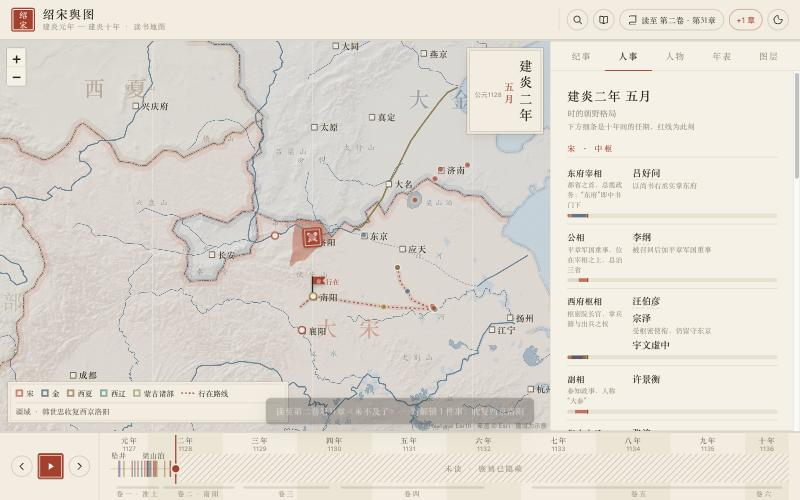
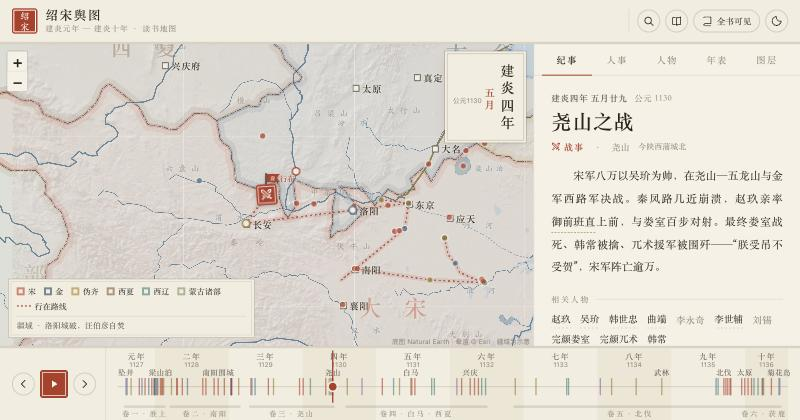
补第五卷事件，新增梁山泊、南阳围城、兴庆府沙盘，分享图与手机顶栏

diff --git a/data/battles.js b/data/battles.js
@@ -359,6 +359,239 @@
         },
       ],
     },
+
+    // ═════════ 梁山泊之战 ═════════
+    {
+      id: 'liangshan', event: 'liangshan', ch: [1, 67], view: [116.1, 35.52, 11.25], title: '梁山泊之战', sub: '缩头滩', date: '建炎二年 正月廿八',
+      brief: '兀术南下时留万户完颜塞里带五千骑占据济州，作为后路接应。岳飞带着东京留守司的一支人马东来，与梁山泊的渔民头领张荣合兵——他们要把这支陆战无敌的骑兵引进水里。',
+      terrain: [
+        { t: 'lake', n: '梁　山　泊', pts: [[115.86, 35.6], [115.98, 35.565], [116.06, 35.585], [116.08, 35.6], [116.13, 35.6], [116.16, 35.575], [116.26, 35.585], [116.35, 35.68], [116.36, 35.86], [116.3, 35.98], [116.16, 36.04], [116.0, 36.02], [115.88, 35.92], [115.83, 35.76]] },
+        { t: 'marsh', n: '芦苇荡', pts: [[116.0, 35.6], [116.075, 35.605], [116.08, 35.66], [116.04, 35.69], [115.99, 35.66]] },
+        { t: 'marsh', n: '芦苇荡', pts: [[116.135, 35.605], [116.21, 35.6], [116.22, 35.66], [116.17, 35.69], [116.13, 35.66]] },
+        { t: 'shoal', n: '缩头滩', pts: [[116.085, 35.565], [116.13, 35.565], [116.128, 35.6], [116.15, 35.63], [116.14, 35.675], [116.105, 35.69], [116.07, 35.67], [116.065, 35.63], [116.087, 35.6]] },
+        { t: 'label', n: '葫芦颈', at: [116.107, 35.585] },
+        { t: 'river', n: '济　水', w: 4, pts: [[115.82, 35.47], [115.95, 35.46], [116.1, 35.45], [116.25, 35.46], [116.4, 35.49]] },
+        { t: 'city', n: '济州', at: [116.1, 35.4] },
+        { t: 'camp', f: 'song', n: '梁山水寨', pts: [[116.2, 35.76], [116.25, 35.76], [116.25, 35.8], [116.2, 35.8]], small: true },
+      ],
+      units: {
+        yf: { f: 'song', k: 'cav', n: '岳飞', s: '诱敌骑兵四百余' },
+        yfi: { f: 'song', k: 'inf', n: '岳飞部步卒', s: '滩头结阵' },
+        yw: { f: 'song', k: 'inf', n: '杨惟忠', s: '河北溃兵' },
+        zr: { f: 'song', k: 'navy', n: '张荣', s: '渔舟数千' },
+        bigs: { f: 'song', k: 'navy', n: '梁山大船', s: '压阵' },
+        sl: { f: 'jin', k: 'hq', n: '完颜塞里', s: '万户' },
+        jm: { f: 'jin', k: 'cav', n: '女真骑兵', s: '约四千五' },
+        dt: { f: 'jin', k: 'cav', n: '大挞不野', s: '渤海猛安' },
+        ll: { f: 'qi', k: 'inf', n: '刘麟', s: '刘豫之子' },
+      },
+      phases: [
+        {
+          title: '水泊设伏', time: '正月廿三',
+          text: '完颜塞里的五千骑占着济州城，扼住兀术的后路。岳飞的部队从济水偷渡，进了张荣的梁山水寨，与张荣、杨惟忠合兵近两万。张荣掐指一算：五日后的正月廿八，下午到傍晚之间，务必把金人引过来——那天水会涨。',
+          pos: { yf: [116.2, 35.73], yfi: [116.235, 35.745], yw: [116.215, 35.79], zr: [116.255, 35.78], bigs: [116.28, 35.82], sl: [116.1, 35.395], jm: [116.12, 35.41], dt: [116.08, 35.41], ll: [116.1, 35.38] },
+          arrows: [{ f: 'song', k: 'move', pts: [[116.0, 35.43], [116.12, 35.5], [116.2, 35.6], [116.21, 35.72]] }],
+        },
+        {
+          title: '七骑叫阵', time: '廿八 上午',
+          text: '岳飞只带七骑来到济州城北，把此前斩获的女真首级摆在马下挑衅。渤海猛安大挞不野先派人单挑落败，又派三十骑追逐，结果被七骑往来回转、回身连射，三十骑只剩二十骑。',
+          pos: { yf: [116.1, 35.43], yfi: [116.1, 35.66] },
+          arrows: [{ f: 'song', k: 'move', pts: [[116.2, 35.73], [116.13, 35.6], [116.1, 35.45]] }, { f: 'song', k: 'move', pts: [[116.235, 35.745], [116.15, 35.69], [116.105, 35.665]] }],
+          marks: [{ at: [116.1, 35.445], t: '七骑败三十骑' }],
+        },
+        {
+          title: '金军尽出', time: '午后',
+          text: '大挞不野亲自下城出战又吃了亏，完颜塞里再也坐不住：济州三门齐开，主力尽出，只留几百人看城。岳飞的四百余骑一路且战且退，把金军往北引向梁山泊南岸。',
+          pos: { yf: [116.105, 35.56], jm: [116.105, 35.5], dt: [116.09, 35.49], sl: [116.11, 35.48], ll: [116.115, 35.47] },
+          arrows: [{ f: 'song', k: 'retreat', pts: [[116.1, 35.43], [116.1, 35.5], [116.105, 35.56]] }, { f: 'jin', k: 'attack', pts: [[116.1, 35.41], [116.1, 35.47], [116.103, 35.5]] }],
+        },
+        {
+          title: '缩头滩', time: '下午正中', view: [116.122, 35.6, 12.5],
+          text: '这片滩地形如葫芦：南面的葫芦颈连着陆地，北面的葫芦肚是一片砂石坚硬的大圆滩，两侧五六里外才是芦苇荡，骑兵完全冲得起来。岳飞的步卒在滩头西北结阵，金军进入葫芦肚轮番冲击；完颜塞里骑马立在大圆滩中央观阵，承认这是生平所见最难缠的宋军。',
+          pos: { yf: [116.09, 35.655], yfi: [116.098, 35.668], jm: [116.11, 35.64], dt: [116.12, 35.63], sl: [116.108, 35.62], ll: [116.112, 35.61] },
+          arrows: [{ f: 'song', k: 'move', pts: [[116.105, 35.56], [116.1, 35.62], [116.09, 35.65]] }, { f: 'jin', k: 'attack', pts: [[116.103, 35.5], [116.107, 35.58], [116.105, 35.635], [116.1, 35.66]] }],
+        },
+        {
+          title: '渔歌四起', time: '傍晚',
+          text: '一艘形制古怪、两侧绑着尖木的小船从水泊深处一直划过来。夕阳下，数以千计的小舟从两侧芦苇荡同时涌出，大船在后压阵，成千上万人齐唱渔歌号子。塞里下令撤退，披红袄、簪着花的张荣带着那些怪船，像水上骑兵一样冲撞撤退骑兵的侧翼——葫芦颈早已被挖沟、筑圩堵死。',
+          pos: { zr: [116.135, 35.6], bigs: [116.16, 35.64] },
+          st: { jm: 'rout' },
+          arrows: [{ f: 'song', k: 'attack', pts: [[116.255, 35.78], [116.2, 35.66], [116.14, 35.61]] }, { f: 'song', k: 'attack', pts: [[116.0, 35.66], [116.06, 35.62], [116.09, 35.6]] }, { f: 'jin', k: 'retreat', pts: [[116.108, 35.62], [116.108, 35.59]] }],
+          marks: [{ at: [116.107, 35.578], t: '归路已断' }],
+        },
+        {
+          title: '水涨', time: '入夜',
+          text: '水越涨越高，前有重兵、后路已断，陆战无敌的女真骑兵在一艘艘破船面前失去了抵抗力。有人卸甲浮马想逃，被乱箭射死、被小船撞死。四面船只合围，火把与箭矢不停压近，水泊上一片火海。',
+          pos: { jm: [116.108, 35.625], dt: [116.115, 35.618], sl: [116.105, 35.632], zr: [116.13, 35.615], bigs: [116.075, 35.635] },
+          st: { dt: 'rout', sl: 'rout' },
+          arrows: [{ f: 'song', k: 'attack', pts: [[116.16, 35.64], [116.125, 35.628]] }, { f: 'song', k: 'attack', pts: [[116.05, 35.64], [116.09, 35.63]] }],
+          marks: [{ at: [116.1, 35.645], t: '水上火海' }],
+        },
+        {
+          title: '全军覆没', time: '天明', view: [116.12, 35.55, 11.25],
+          text: '万户完颜塞里身死，五千金军全军覆没。杨惟忠把塞里的首级传示京东诸州，济州收复。消息传到淮上，正在起砲攻下蔡的兀术一日之内连挨两记重拳——后路，断了。',
+          pos: { yw: [116.1, 35.41], yfi: [116.105, 35.62] },
+          st: { jm: 'dead', dt: 'dead', sl: 'dead' },
+          arrows: [{ f: 'song', k: 'move', pts: [[116.215, 35.79], [116.15, 35.55], [116.1, 35.42]] }],
+          marks: [{ at: [116.1, 35.425], t: '济州收复' }],
+        },
+      ],
+    },
+
+    // ═════════ 南阳围城 ═════════
+    {
+      id: 'nanyangwei', event: 'nanyangwei', ch: [2, 63], view: [112.53, 33.006, 13.25], title: '南阳围城', sub: '以砲制砲', date: '建炎二年 十一月—三年正月',
+      brief: '兀术攻破长葛、围住长社后转攻陪都南阳。城里有赵官家，也有一个专心研究守城器械多年的陈规。',
+      terrain: [
+        { t: 'river', n: '白　河', w: 7, pts: [[112.58, 33.12], [112.565, 33.06], [112.555, 33.02], [112.553, 32.99], [112.565, 32.96], [112.6, 32.93], [112.64, 32.9]] },
+        { t: 'hill', n: '豫　山', pts: [[112.575, 33.06], [112.6, 33.055], [112.605, 33.075], [112.585, 33.085]] },
+        { t: 'wall', n: '南阳城', pts: [[112.515, 32.99], [112.545, 32.99], [112.545, 33.012], [112.515, 33.012]] },
+        { t: 'wall', n: '羊马墙', outer: true, pts: [[112.508, 32.985], [112.552, 32.985], [112.552, 33.018], [112.508, 33.018]] },
+        { t: 'camp', f: 'jin', n: '金军北面大营', pts: [[112.505, 33.035], [112.56, 33.035], [112.56, 33.055], [112.505, 33.055]] },
+        { t: 'camp', f: 'jin', n: '豫山后勤大营', pts: [[112.585, 33.035], [112.61, 33.035], [112.61, 33.05], [112.585, 33.05]], small: true },
+        { t: 'label', n: '→ 中阳山 · 往鄢陵', at: [112.66, 33.06] },
+      ],
+      units: {
+        emp: { f: 'song', k: 'emp', n: '赵玖', s: '登城' },
+        cg: { f: 'song', k: 'hq', n: '陈规', s: '城防总设计' },
+        sart: { f: 'song', k: 'art', n: '城内砲车', s: '隐藏不发' },
+        fq: { f: 'song', k: 'inf', n: '傅庆', s: '甲士一千' },
+        wd: { f: 'song', k: 'inf', n: '王德', s: '“夜叉”' },
+        liu: { f: 'song', k: 'cav', n: '刘晏', s: '赤心队八百' },
+        zj: { f: 'song', k: 'inf', n: '张景', s: '城外援军' },
+        wz: { f: 'jin', k: 'hq', n: '兀术', s: '北面将台' },
+        bls: { f: 'jin', k: 'heavy', n: '拔离速', s: '两个猛安' },
+        zy: { f: 'jin', k: 'inf', n: '张遇', s: '叛将 · 驱赶民夫' },
+        hc: { f: 'jin', k: 'inf', n: '韩常', s: '汉军万户' },
+        czh: { f: 'jin', k: 'hq', n: '赤盏晖', s: '万户' },
+        jart: { f: 'jin', k: 'art', n: '金军砲车', s: '两百架 · 四营' },
+        pc: { f: 'jin', k: 'inf', n: '城东仆从军', s: '' },
+        bq: { f: 'jin', k: 'cav', n: '白河外侧万骑', s: '' },
+      },
+      phases: [
+        {
+          title: '合围', time: '建炎二年 十一月',
+          text: '兀术带三个万户、加上叛将张遇，共四万战兵（其中两万骑兵），又有新降汉军和两三万民夫，在城北立下大营，把城东白河畔原本宋军的豫山大营改作后勤基地。金人截了白河水，护城河水位骤降，随即冻得结结实实。赵玖拒绝弃城南走。',
+          pos: { emp: [112.53, 33.003], cg: [112.519, 32.995], sart: [112.542, 32.994], fq: [112.53, 33.011], wd: [112.545, 33.004], liu: [112.516, 33.007], zj: [112.48, 32.93], wz: [112.53, 33.047], bls: [112.515, 33.042], zy: [112.548, 33.04], hc: [112.49, 33.0], czh: [112.555, 33.05] },
+        },
+        {
+          title: '填壕', time: '围城第五日',
+          text: '张遇的兵驱赶民夫扛着土筐填沟，宋军一箭不发，放他们一直冲到跟前；拔离速的两个猛安随即压上，攻打护城河后的羊马墙。羊马墙后其实另有壕沟与伏兵——冲进来的女真甲士被扒光甲胄，裸身扔回墙外。',
+          pos: { zy: [112.535, 33.022], bls: [112.522, 33.024] },
+          arrows: [{ f: 'jin', k: 'attack', pts: [[112.548, 33.04], [112.538, 33.022]] }, { f: 'jin', k: 'attack', pts: [[112.515, 33.042], [112.521, 33.025]] }],
+          marks: [{ at: [112.53, 33.017], t: '羊马墙' }],
+        },
+        {
+          title: '五道甬道', time: '围城第六日',
+          text: '金人照着秦汉的法子修起两侧筑墙、上方加顶的甬道，遇沟填沟、遇墙推墙，北面一口气起了五条。赵玖披甲登城。傅庆带一千甲士出城，一半持刀盾正面接战、一半用钩索拉扯拆毁甬道，与金军在城下肉搏；韩常也被逼得亲自披挂。入夜，宋军发现甬道上的湿毡布早已晒干，火药火箭一射，五条甬道像五支火炬照亮了夜空。',
+          pos: { fq: [112.532, 33.021], hc: [112.52, 33.03], bls: [112.512, 33.032], zy: [112.548, 33.028] },
+          arrows: [{ f: 'song', k: 'attack', pts: [[112.53, 33.009], [112.532, 33.02]] }, { f: 'jin', k: 'attack', pts: [[112.49, 33.0], [112.505, 33.02], [112.52, 33.028]] }],
+          marks: [{ at: [112.54, 33.03], t: '火烧甬道' }],
+        },
+        {
+          title: '砲战', time: '半月之后',
+          text: '兀术学乖了：攒足两百架砲车，分四营布阵，准备一场持久砲战。没等他齐射，宋军城内藏了半月的砲车先发制人——陈规的砲车只需一人挥木槌开机，射得又远又准。一日之内，金军辛苦半月造成的数百砲车尽成齑粉，一颗泥丸把万户赤盏晖砸死在兀术的将台上。',
+          pos: { jart: [112.53, 33.033], fq: [112.53, 33.009], hc: [112.49, 33.01] },
+          st: { jart: 'dead', czh: 'dead' },
+          arrows: [{ f: 'song', k: 'attack', pts: [[112.538, 32.996], [112.533, 33.03]] }, { f: 'song', k: 'attack', pts: [[112.538, 32.996], [112.552, 33.047]] }],
+          marks: [{ at: [112.556, 33.058], t: '泥丸毙赤盏晖' }],
+        },
+        {
+          title: '围转为困', time: '腊月',
+          text: '金军的砲车毫无还手之力，攻城的欲望也随之垮掉。拔离速主张收缩：只在城北、城西立寨，城东虚置，城南干脆放开。持续二十日的围城战变成了静坐式的困城，宋军发现自己与外界的联络居然重新打通了。',
+          pos: { zy: [112.552, 33.045], bls: [112.5, 33.035], hc: [112.485, 33.005], jart: null, czh: null },
+          arrows: [{ f: 'jin', k: 'retreat', pts: [[112.535, 33.022], [112.55, 33.043]] }, { f: 'jin', k: 'retreat', pts: [[112.52, 33.03], [112.502, 33.035]] }],
+        },
+        {
+          title: '王夜叉出城', time: '腊月',
+          text: '王德出城击破城东的仆从军，阵斩一名金将，从容而回。消息传到城外，南阳的士气与金军的颓势形成了鲜明对比。',
+          pos: { wd: [112.565, 33.005], pc: [112.575, 33.01] },
+          st: { pc: 'rout' },
+          arrows: [{ f: 'song', k: 'attack', pts: [[112.545, 33.002], [112.568, 33.006]] }],
+        },
+        {
+          title: '潜出南阳', time: '建炎三年 正月十一夜',
+          text: '河冰渐融，金军分出一万骑东北去援挞懒，又留万骑埋伏在白河外侧。赵玖让王德与城外的张景合兵一万多人往南渡白河当诱饵；趁金军伏兵扑向他们，自己带八百赤心队从城东暗门出城，往东渡河，穿过中阳山直奔鄢陵——去斧杀杜充、夺东京留守司的兵权。',
+          pos: { wd: [112.57, 32.955], zj: [112.58, 32.945], bq: [112.61, 32.965], emp: [112.6, 33.025], liu: [112.605, 33.02], pc: null },
+          arrows: [{ f: 'song', k: 'move', pts: [[112.545, 32.995], [112.56, 32.97], [112.572, 32.955]] }, { f: 'jin', k: 'attack', pts: [[112.63, 32.99], [112.61, 32.965], [112.585, 32.955]] }, { f: 'song', k: 'move', pts: [[112.545, 33.004], [112.58, 33.015], [112.62, 33.03], [112.66, 33.05]] }],
+        },
+      ],
+    },
+
+    // ═════════ 兴庆府之战 ═════════
+    {
+      id: 'xingqing', event: 'xingqing', ch: [4, 71], view: [106.15, 38.2, 10.25], title: '兴庆府之战', sub: '倚河而行', date: '建炎六年 四月初七—初十',
+      brief: '西夏晋王察哥带主力西去河西，与耶律大石争夺甘州。藏身峡口的岳飞亲眼看着两万夏军过峡西去——兴庆府的门户，开了。',
+      terrain: [
+        { t: 'hill', n: '贺 兰 山', pts: [[105.72, 38.1], [105.86, 38.12], [106.0, 38.45], [106.05, 38.75], [105.95, 38.8], [105.8, 38.45]] },
+        { t: 'river', n: '黄　河', w: 10, pts: [[105.95, 37.82], [106.03, 37.97], [106.15, 38.15], [106.3, 38.32], [106.4, 38.47], [106.48, 38.65], [106.55, 38.8]] },
+        { t: 'canal', n: '唐渠', pts: [[106.0, 37.95], [106.08, 38.1], [106.17, 38.28], [106.24, 38.44]] },
+        { t: 'label', n: '峡口', at: [105.96, 37.86] },
+        { t: 'city', n: '兴庆府', at: [106.27, 38.47] },
+        { t: 'city', n: '静州', at: [106.19, 38.3] },
+        { t: 'city', n: '怀州', at: [106.46, 38.44] },
+        { t: 'city', n: '定州', at: [106.45, 38.72] },
+        { t: 'label', n: '← 察哥主力远在河西', at: [105.8, 38.0] },
+      ],
+      units: {
+        yf: { f: 'song', k: 'hq', n: '岳飞', s: '主帅' },
+        inf: { f: 'song', k: 'inf', n: '枪盾方阵', s: '御营步卒' },
+        bow: { f: 'song', k: 'bow', n: '弓弩方阵', s: '神臂弓、克敌弓' },
+        qd: { f: 'song', k: 'heavy', n: '曲端', s: '甲骑' },
+        lsf: { f: 'song', k: 'cav', n: '李世辅', s: '党项蕃骑' },
+        zj: { f: 'song', k: 'inf', n: '张景', s: '中军后队' },
+        ah: { f: 'xia', k: 'hq', n: '嵬名安惠', s: '梁王 · 白牛纛' },
+        lq: { f: 'xia', k: 'emp', n: '李乾顺', s: '夏国主' },
+        fq: { f: 'xia', k: 'cav', n: '部族蕃骑', s: '四十余族帐 · 约两万' },
+        jq: { f: 'xia', k: 'heavy', n: '兴庆甲骑', s: '两三千' },
+        fz: { f: 'xia', k: 'navy', n: '羊皮筏子', s: '' },
+      },
+      phases: [
+        {
+          title: '门户洞开', time: '建炎六年 四月初',
+          text: '宋军在东面横山、黄河一线牵住金军与西夏，西夏晋王察哥却带主力西去河西，与耶律大石争夺甘州。藏身峡口（今青铜峡）的岳飞亲眼看见约两万夏军匆匆过峡西去——从峡口到兴庆府，只剩一条沿黄河的平川。',
+          pos: { yf: [105.97, 37.87], inf: [105.985, 37.88], bow: [105.97, 37.895], qd: [105.955, 37.885], lsf: [106.0, 37.9], zj: [105.96, 37.86], ah: [106.24, 38.4], lq: [106.27, 38.46], fq: [106.2, 38.38], jq: [106.25, 38.43], fz: [106.33, 38.38] },
+          arrows: [{ f: 'xia', k: 'move', pts: [[106.0, 37.95], [105.9, 37.92], [105.75, 37.95]] }],
+        },
+        {
+          title: '出峡北上', time: '四月初七',
+          text: '宋军出峡沿黄河西岸北上，左是贺兰山、右是黄河。行军队形是枪盾方阵与弓弩方阵交错前进，蕃骑在步卒之外游走侦察，甲骑藏在弓弩手身后。夏国部族蕃骑不等友军就位便扑上来——步弓射程远过骑弓，神臂弓更是远远压制，蕃骑一触即散，又被宋军蕃骑从阵隙中追出砍杀。当日行四十余里。',
+          pos: { yf: [106.06, 38.04], inf: [106.075, 38.05], bow: [106.06, 38.055], qd: [106.05, 38.045], lsf: [106.09, 38.06], zj: [106.045, 38.025], fq: [106.1, 38.12] },
+          arrows: [{ f: 'song', k: 'move', pts: [[105.97, 37.88], [106.02, 37.97], [106.06, 38.04]] }, { f: 'xia', k: 'attack', pts: [[106.15, 38.2], [106.1, 38.1], [106.085, 38.07]] }],
+        },
+        {
+          title: '倚河而行', time: '四月初八',
+          text: '又沿河走了六十余里，离兴庆府只剩四十里。梁王嵬名安惠派小股轻骑骚扰，又让羊皮筏子载兵从河上夹击，都没能拖住宋军。静州城门大开，金帛在夕阳下熠熠生辉，摆明了是诱饵——两三万宋军从城下经过，没有一个人进城。',
+          view: [106.17, 38.24, 11.5],
+          pos: { yf: [106.17, 38.25], inf: [106.185, 38.26], bow: [106.17, 38.265], qd: [106.16, 38.255], lsf: [106.2, 38.27], zj: [106.15, 38.23], fz: [106.24, 38.25], fq: [106.15, 38.33] },
+          arrows: [{ f: 'song', k: 'move', pts: [[106.06, 38.04], [106.12, 38.15], [106.17, 38.25]] }, { f: 'xia', k: 'attack', pts: [[106.3, 38.3], [106.26, 38.27], [106.24, 38.255]] }],
+          marks: [{ at: [106.19, 38.315], t: '空城诱敌' }],
+        },
+        {
+          title: '白牛纛', time: '四月初九', view: [106.2, 38.3, 12.25],
+          text: '夏国主李乾顺亲临，梁王嵬名安惠在白牛纛下集结四十多个族帐、约两万轻骑与两三千兴庆甲骑，从四面撞向宋军行军阵。宋军外围的弓弩手半身钉满箭矢、宛如刺猬，依然一步一射；夏军转而猛攻宋军后队，张景部遭到前所未有的打击。',
+          pos: { ah: [106.23, 38.335], lq: [106.24, 38.345], fq: [106.19, 38.3], jq: [106.15, 38.235], yf: [106.19, 38.29], inf: [106.2, 38.3], bow: [106.185, 38.295], qd: [106.18, 38.285], lsf: [106.205, 38.285], zj: [106.165, 38.255] },
+          arrows: [{ f: 'xia', k: 'attack', pts: [[106.15, 38.33], [106.18, 38.305]] }, { f: 'xia', k: 'attack', pts: [[106.12, 38.22], [106.15, 38.24], [106.163, 38.252]] }, { f: 'xia', k: 'attack', pts: [[106.25, 38.33], [106.215, 38.305]] }],
+        },
+        {
+          title: '倒纛', time: '初九 午后',
+          text: '曲端接过全军骑兵的指挥权，宋军甲骑从阵中反冲而出，直取白牛纛。白牛纛一倒，崩溃立刻席卷了整个河畔战场。岳飞没有追亡逐北，而是鸣锣收队，稳住阵型——他要的是兴庆府。',
+          pos: { qd: [106.225, 38.33], ah: [106.26, 38.38], lq: [106.27, 38.45], fq: [106.17, 38.36], jq: [106.13, 38.27] },
+          st: { ah: 'rout', fq: 'rout', jq: 'rout', zj: 'ok' },
+          arrows: [{ f: 'song', k: 'attack', pts: [[106.18, 38.285], [106.21, 38.315], [106.228, 38.333]] }, { f: 'xia', k: 'retreat', pts: [[106.23, 38.335], [106.26, 38.38]] }],
+          marks: [{ at: [106.235, 38.345], t: '白牛纛倒' }],
+        },
+        {
+          title: '兵临兴庆', time: '四月初十',
+          text: '次日清早，宋军兵不血刃进抵兴庆府城东的西夏皇宫。从东京带来的火药已备好坑道爆破，但西夏人根本来不及组织防御。岳飞严令全军不许私掠，战利品统一分配，随即分兵扫荡静州、怀州，又派一支沿唐渠北上定州。夏主李乾顺持金牌出逃。',
+          view: [106.3, 38.45, 11],
+          pos: { yf: [106.29, 38.465], inf: [106.3, 38.475], bow: [106.285, 38.48], qd: [106.31, 38.45], lsf: [106.43, 38.43], zj: [106.2, 38.31], ah: null, jq: null, fz: null, fq: null, lq: [106.45, 38.62] },
+          st: { lq: 'rout' },
+          arrows: [{ f: 'song', k: 'move', pts: [[106.2, 38.3], [106.25, 38.4], [106.29, 38.46]] }, { f: 'song', k: 'move', pts: [[106.3, 38.45], [106.38, 38.44], [106.43, 38.43]] }, { f: 'xia', k: 'retreat', pts: [[106.27, 38.47], [106.38, 38.55], [106.45, 38.62]] }],
+          marks: [{ at: [106.27, 38.49], t: '兴庆府城破' }],
+        },
+      ],
+    },
   ];
   window.SS_BATTLES = B;
 })();

diff --git a/data/events.js b/data/events.js
@@ -225,9 +225,21 @@
     { id: 'beifa0', t: T(7, 3, 1), date: '建炎六年冬—七年', title: '北伐筹备', type: 'court', place: '东京', at: [114.31, 34.8], emp: [114.31, 34.8], ch: [5, 10],
       people: ['张浚', '赵鼎', '马扩', '刘洪道', '林景默'],
       sum: '马扩断言“想在两河击败女真，非三十万兵不可”。张浚的一揽子北伐方案强行推行：国债、彩票、邸报广告、整顿御营右军……一切为北伐搞钱。' },
+    { id: 'makuo30', t: T(6, 11, 20), date: '建炎六年 冬', title: '“非三十万兵不可”', type: 'court', place: '东京', at: [114.31, 34.8], emp: [114.31, 34.8], ch: [5, 5],
+      people: ['马扩', '赵玖', '仁保忠', '刘洪道'],
+      sum: '在太行山敌后苦撑多年的马扩渡河回京。这个大概最懂女真人的人给北伐定下了一个明确的门槛：一旦攻守易势，想在两河击败女真，非三十万兵不可。朝廷随即开始整顿御营，清退役使士卒、侵占士卒田土的军官。' },
     { id: 'jinguo', t: T(7, 8, 1), date: '建炎七年', title: '金国新主与迁都', type: 'diplo', place: '燕京', at: [116.4, 39.9], emp: [114.31, 34.8], ch: [5, 15],
       people: ['完颜吴乞买', '完颜合剌', '秦桧', '完颜兀术'],
       sum: '少年国主在燕京即位，金国重用汉人、迁都燕京，关外旧势力不满；吴乞买死后，政局再度动荡。' },
+    { id: 'songlin', t: T(7, 8, 10), date: '建炎七年 秋', title: '平地松林之变', type: 'diplo', place: '滦河上游 平地松林', at: [117.4, 42.4], emp: [114.31, 34.8], ch: [5, 16],
+      people: ['完颜兀术', '秦桧', '完颜合剌'],
+      sum: '金国君臣顺滦河北上秋狩，宿营在一望无际的平地松林边。夜里松林大火冲天，兀术趁乱以甲骑封住河两岸，次日当着少年国主的面，大批诛杀太宗一系的权贵。秦桧等汉臣在一旁看得心惊——这是金国前所未有的一次清洗。' },
+    { id: 'reqiqiu', t: T(8, 1, 15), date: '建炎八年 上元', title: '上元灯会·热气球', type: 'life', place: '东京', at: [114.31, 34.8], emp: true, ch: [5, 23],
+      people: ['赵玖'],
+      sum: '正月十四到十八，东京百万人口倾城观灯，灯海一直铺到城外的岳台、青城。赵玖试验了多次的热气球终于升空，作为献给上元节的“大新闻”——结果不到一炷香绳索就断了，气球顺着东南风越飞越远。' },
+    { id: 'dabiwu', t: T(8, 3, 10), date: '建炎八年 三月', title: '全军大比武', type: 'court', place: '东京', at: [114.31, 34.8], emp: true, ch: [5, 26],
+      people: ['赵玖', '杨沂中', '刘晏'],
+      sum: '照着当年收复东京后河阴阅兵的成例，赵玖借机举行了全军大比武。表面上天下平稳、只等钱粮攒足便可北伐，暗地里北伐激进派与东南反对派的角力却越来越紧。' },
     { id: 'nanxun', t: T(8, 7, 10), date: '建炎八年 七月', title: '南巡淮左', type: 'court', place: '扬州', at: [119.42, 32.39], emp: true, ch: [5, 30],
       people: ['赵玖', '吕颐浩'],
       sum: '为北伐前团结人心、整顿东南财赋，赵玖南巡至扬州。东南本是反对北伐的大本营。',
@@ -236,6 +248,12 @@
       people: ['赵玖', '吕颐浩', '李纲', '许景衡'],
       sum: '赵玖驻跸杭州凤凰山吴越旧宫，召开“西湖问政大会”，被戏称为建炎武林大会。随后两浙、江东大规模土断检地。',
       routes: [{ f: 'song', pts: [[119.42, 32.39], [119.6, 31.8], [120.3, 31.5], [120.15, 30.25]] }] },
+    { id: 'lvdudu', t: T(9, 8, 10), date: '建炎九年 八月', title: '吕颐浩都督河北', type: 'people', place: '杭州', at: [120.15, 30.25], emp: true, ch: [5, 40],
+      people: ['吕颐浩', '赵玖'],
+      sum: '吕颐浩拜枢密院副使，加归德军节度使，都督河北东路、河北西路、河东路、燕山路军国事——人称“河北大都督”。东南的士大夫这才明白：北伐的号令，竟然是从杭州西湖发出来的。' },
+    { id: 'wuqimai', t: T(9, 8, 20), date: '建炎九年 秋', title: '金国老国主之死', type: 'diplo', place: '会宁府', at: [126.97, 45.53], emp: [120.15, 30.25], ch: [5, 41],
+      people: ['完颜吴乞买', '完颜斡本', '完颜讹里朵', '完颜兀术'],
+      sum: '退居老家的太上皇吴乞买去世。本就不满迁都燕京、重用汉人的关外旧势力借机发难，流言说老国主是因儿子被奸贼所害、忧愤而死。金国执政们一面安抚关外，一面判断宋军最早秋后才能北伐——讹里朵坐镇真定，兀术随时准备南下。' },
     { id: 'beifa', major: '北伐', t: T(9, 9, 18), date: '建炎九年 九月十八', title: '北伐誓师', type: 'war', place: '东平府阳谷 吾山大营', at: [116.2, 36.2], emp: true, ch: [5, 42],
       people: ['赵玖', '吕颐浩', '王彦', '张浚', '岳飞'],
       sum: '八月十四回到东京，九月初再出京城。九月十八，赵玖坐镇吾山大营，吕颐浩、王彦分坐左右——三年积攒、一年粮草，北伐开始。' },

diff --git a/js/sandbox.js b/js/sandbox.js
@@ -14,6 +14,7 @@
     cav: { n: '骑兵', i: ico('<path d="M6 21c0-3 1-5.5 3-7l-3-2 1.5-4.5L12 4l2-1 1 2 3 2.5 1 3.5-2 1-2.5-1.5-.5 3.5 2 7"/><circle cx="14" cy="7.3" r=".6" fill="currentColor"/>') },
     heavy: { n: '重骑', i: ico('<path d="M6 21c0-3 1-5.5 3-7l-3-2 1.5-4.5L12 4l2-1 1 2 3 2.5 1 3.5-2 1-2.5-1.5-.5 3.5 2 7"/><path d="M4 21h16"/><path d="M9 14l3-2 2 1"/>') },
     bow: { n: '弓弩', i: ico('<path d="M6 3c7 2.5 7 15.5 0 18"/><path d="M6 3v18"/><path d="M6 12h13M16 9l3 3-3 3"/>') },
+    art: { n: '砲车', i: ico('<path d="M3 20h18"/><path d="M7 20l5-11 5 11"/><path d="M12 9 20 4"/><circle cx="20.5" cy="6.5" r="1.6"/>') },
     navy: { n: '水军', i: ico('<path d="M3 15h18l-3 5H6z"/><path d="M12 3v12M12 3l6 8h-6"/>') },
     hq: { n: '主帅', i: ico('<path d="M5 21V3"/><path d="M5 4h12l-3 4 3 4H5"/>') },
     emp: { n: '御驾', i: ico('<path d="M5 21V3"/><path d="M5 4h13l-3 4 3 4H5"/><circle cx="11" cy="8" r="1.6" fill="currentColor"/>') },
@@ -126,6 +127,18 @@
     cur.terrain.forEach((t) => {
       if (t.t === 'river') {
         L.polyline(t.pts.map(ll), { renderer: rTer, className: 'sb-river', weight: t.w || 4, interactive: false }).addTo(g);
+        lbl(t.pts[Math.floor(t.pts.length / 2)], t.n, 'water');
+      } else if (t.t === 'lake') {
+        L.polygon(t.pts.map(ll), { renderer: rTer, className: 'sb-lake', interactive: false }).addTo(g);
+        lbl(centroid(t.pts), t.n, 'water big');
+      } else if (t.t === 'shoal') {
+        L.polygon(t.pts.map(ll), { renderer: rTer, className: 'sb-shoal', interactive: false }).addTo(g);
+        lbl(centroid(t.pts), t.n, 'hill small');
+      } else if (t.t === 'wall') {
+        L.polygon(t.pts.map(ll), { renderer: rTer, className: 'sb-wall' + (t.outer ? ' outer' : ''), interactive: false }).addTo(g);
+        if (!t.outer) lbl(centroid(t.pts), t.n, 'city-name');
+      } else if (t.t === 'canal') {
+        L.polyline(t.pts.map(ll), { renderer: rTer, className: 'sb-canal', weight: 2.5, interactive: false }).addTo(g);
         lbl(t.pts[Math.floor(t.pts.length / 2)], t.n, 'water');
       } else if (t.t === 'dike') {
         L.polyline(t.pts.map(ll), { renderer: rTer, className: 'sb-dike', weight: 3, interactive: false }).addTo(g);

diff --git a/css/style.css b/css/style.css
@@ -569,7 +569,6 @@ body.sb-open { overflow: hidden; }
 .sb-unit .u-st { position: absolute; top: -9px; right: -9px; font-style: normal; font-family: var(--kai); font-size: 12px; font-weight: 700; color: #fff; background: #222;
   width: 18px; height: 18px; border-radius: 50%; display: none; place-items: center; }
 .sb-unit.k-emp, .sb-unit.k-hq { border-width: 2px; }
-.sb-unit.k-emp .u-ico { background: var(--accent); }
 .sb-unit.k-heavy { box-shadow: 0 0 0 2px var(--paper), 0 0 0 3.4px var(--c), 0 2px 6px rgba(30, 20, 10, .22); }
 .sb-unit.act { box-shadow: 0 0 0 4px color-mix(in srgb, var(--c) 30%, transparent), 0 3px 10px rgba(30, 20, 10, .3); }
 .sb-unit.st-rout { opacity: .62; border-style: dashed; filter: saturate(.5); }
@@ -691,4 +690,16 @@ button.of-name:hover { color: var(--accent); }
   #glossBody dl > div { grid-template-columns: 1fr; gap: 2px; }
   .of-row { grid-template-columns: 80px 1fr; }
   .pill.next-ch { padding: 0 8px; }
+}
+
+.sb-lake { fill: #7fa6bb; fill-opacity: .38; stroke: var(--water); stroke-opacity: .55; stroke-width: 1.4; }
+.sb-shoal { fill: #d8c48f; fill-opacity: .55; stroke: #a8915a; stroke-opacity: .7; stroke-width: 1.2; }
+.sb-wall { fill: var(--paper-2); fill-opacity: .5; stroke: var(--ink); stroke-opacity: .75; stroke-width: 3; }
+.sb-wall.outer { fill: none; stroke-width: 1.4; stroke-dasharray: 5 3; stroke-opacity: .5; }
+.sb-canal { fill: none; stroke: var(--water); stroke-opacity: .6; stroke-dasharray: 3 4; }
+.sb-lbl.water.big { font-size: 18px; letter-spacing: .6em; opacity: .75; }
+.sb-lbl.city-name { font-size: 14px; font-weight: 700; color: var(--ink); letter-spacing: .1em; }
+@media (max-width: 440px) {
+  .brand-text { display: none; }
+  .top-actions { border-left: 0; padding-left: 0; margin-left: auto; gap: 6px; }
 }

diff --git a/index.html b/index.html
@@ -12,6 +12,8 @@
   <meta property="og:description" content="《绍宋》读书地图：建炎十年的时间线、疆域、人事与战役沙盘推演，可按阅读进度防剧透。" />
   <meta property="og:url" content="https://shaosong.liangmouyin.com/" />
   <meta property="og:image" content="https://shaosong.liangmouyin.com/assets/og.jpg" />
+  <meta property="og:image:width" content="800" />
+  <meta property="og:image:height" content="420" />
   <meta name="twitter:card" content="summary_large_image" />
   <link rel="icon" href="assets/favicon.svg" type="image/svg+xml" />
   <link rel="stylesheet" href="vendor/leaflet.css" />

diff --git a/README.md b/README.md
@@ -10,11 +10,14 @@
 index.html          页面骨架
 css/style.css       样式（宣纸 / 夜墨两套配色）
 js/app.js           地图、时间轴、面板、防剧透逻辑
-data/events.js      84 条编年事件（时间、地点、人物、摘要、原著章节、行军路线、行在位置）
+data/events.js      90 条编年事件（时间、地点、人物、摘要、原著章节、行军路线、行在位置）
 data/world.js       势力配色、约 260 个州府控制点、疆域变化（PHASES）
 data/people.js      人物档案（按章节解锁的经历）
 data/chapters.js    六卷章节标题（阅读进度选择用）
-data/battles.js     四场战役的沙盘推演数据（部署、阶段、箭头、镜头）
+data/battles.js     七场战役的沙盘推演数据（部署、阶段、箭头、镜头）
+data/offices.js     人事表：各职位任期（含防剧透的揭晓章节）
+data/glossary.js    名词解释（官制、军制、金制、地理）
+data/places.js      古今地名对照
 js/sandbox.js       沙盘推演引擎
 data/geo.js         海岸线、河湖（Natural Earth，已裁剪简化），外加北宋末黄河、汴河、梁山泊
 vendor/             Leaflet 1.9.4、d3-delaunay 6.0.4
